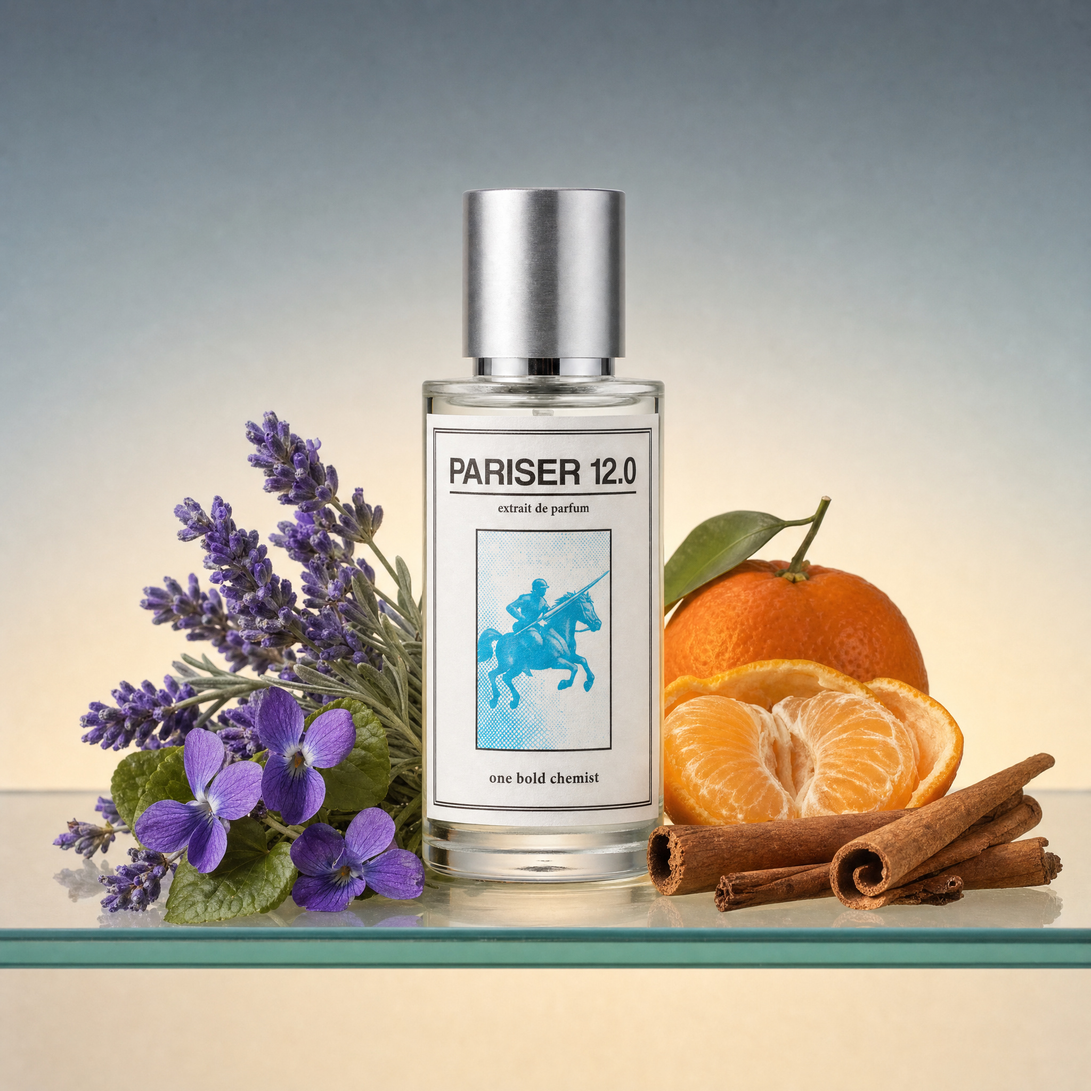
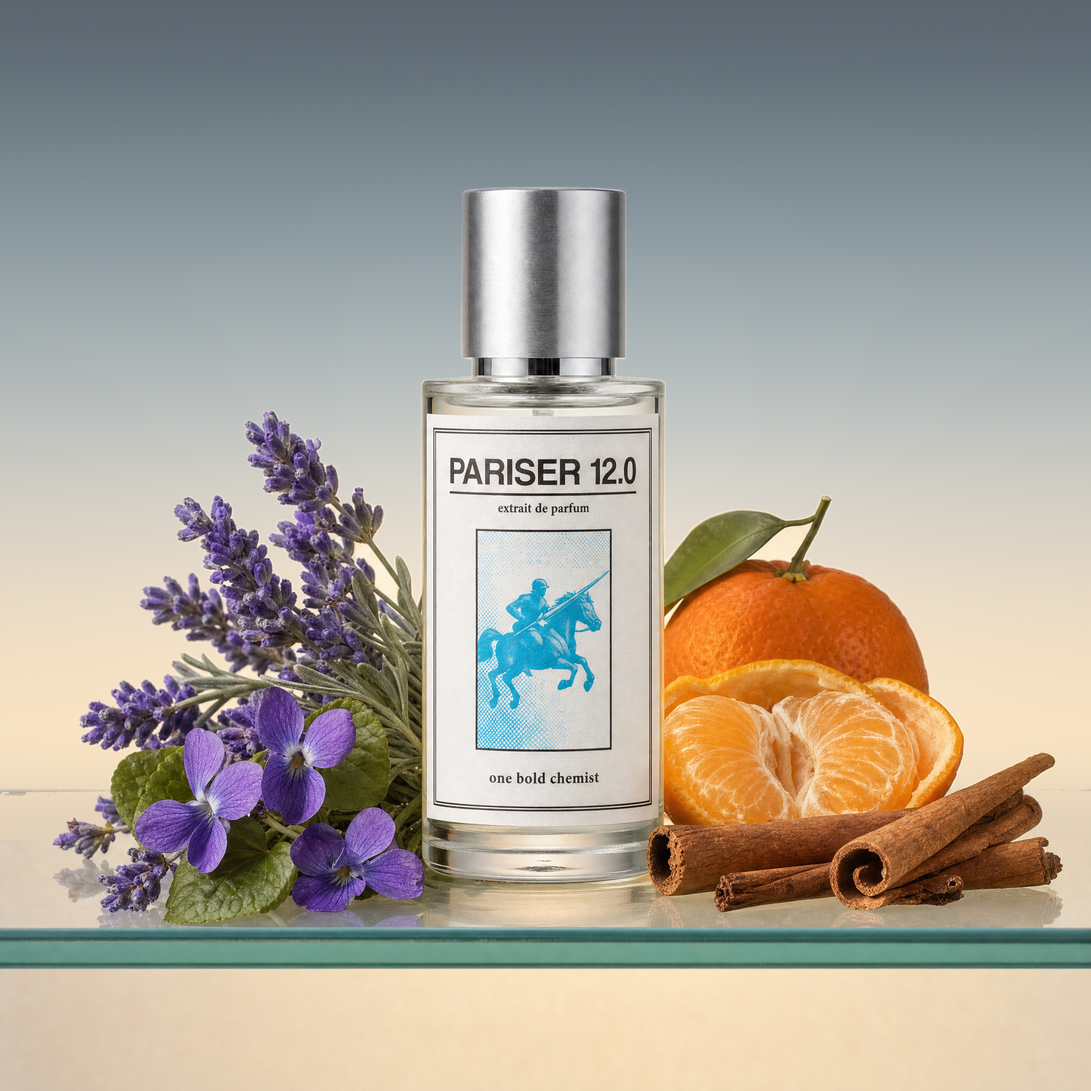
Add backdrop smoothing (edge-bounded flood fill) and apply to editorial images 11-30
Claude-Session: https://claude.ai/code/session_016v8pxCBCRgnJrBoVHWv8hg

Changed region(s): [[0.5625, 0.1562, 0.8438, 0.5312], [0.1875, 0.1875, 0.4375, 0.5], [0.0312, 0.7188, 0.0625, 0.75]]

diff --git a/notes-images/scripts/smooth_backdrop.py b/notes-images/scripts/smooth_backdrop.py
@@ -1,0 +1,98 @@
+#!/usr/bin/env python3
+"""Jämnar ut fläckiga gradientbakgrunder i editorial-bilder.
+
+Bakgrundens färg mäts rad för rad i bildens ytterkanter, jämnas vertikalt och ersätter
+bakgrundspixlarna med en ren vertikal gradient plus en mjuk syntetisk glöd bakom flaskan.
+Flaskan (mittboxen), ingredienserna (nedre bandet, strikt tröskel) och hyllan rörs inte.
+
+Kör:  python3 scripts/smooth_backdrop.py output/*_editorial_gpt.png --out output/final_editorial
+"""
+from __future__ import annotations
+
+import argparse
+from pathlib import Path
+
+import numpy as np
+from PIL import Image, ImageFilter
+
+
+def gaussian1d(a: np.ndarray, sigma: float) -> np.ndarray:
+    r = int(3 * sigma)
+    k = np.exp(-0.5 * (np.arange(-r, r + 1) / sigma) ** 2); k /= k.sum()
+    pad = np.pad(a, ((r, r), (0, 0)), mode="edge")
+    return np.stack([np.convolve(pad[:, c], k, mode="valid") for c in range(a.shape[1])], axis=1)
+
+
+def local_std(g: np.ndarray, r: int) -> np.ndarray:
+    """Lokal standardavvikelse i ett (2r+1)^2-fönster via integralbilder (flyttal)."""
+    def box_mean(x):
+        pad = np.pad(x, r, mode="edge")
+        c = np.cumsum(np.cumsum(pad, axis=0), axis=1)
+        c = np.pad(c, ((1, 0), (1, 0)))
+        w = 2 * r + 1
+        return (c[w:, w:] - c[:-w, w:] - c[w:, :-w] + c[:-w, :-w]) / (w * w)
+    m1 = box_mean(g.astype(np.float64)); m2 = box_mean(g.astype(np.float64) ** 2)
+    return np.sqrt(np.clip(m2 - m1 ** 2, 0, None)).astype(np.float32)
+
+
+def smooth(path: Path, out_dir: Path, shelf: float, glow: float, quality: int) -> str:
+    im = Image.open(path).convert("RGB")
+    a = np.asarray(im).astype(np.float32); H, W, _ = a.shape
+    edge = int(W * 0.05)
+    y_max = int(H * shelf)
+    # 1) bakgrundsfärg per rad från kanterna, vertikalt utjämnad
+    rows = np.concatenate([a[:y_max, :edge], a[:y_max, W - edge:]], axis=1)
+    med = np.median(rows, axis=1)                       # (y_max, 3)
+    bg = gaussian1d(med, sigma=H * 0.03)                # jämn vertikal gradient
+    # 2) syntetisk, mjuk glöd bakom flaskan
+    yy, xx = np.mgrid[0:y_max, 0:W]
+    g = np.exp(-(((xx - W / 2) / (0.32 * W)) ** 2 + ((yy - 0.55 * H) / (0.30 * H)) ** 2))
+    G = np.clip(bg[:, None, :] + glow * g[:, :, None], 0, 255)
+    # 3) bakgrundsmask via flood fill från kanterna genom kantfria, släta pixlar.
+    #    Motivets konturer (starka kanter) stoppar fyllningen, så färglikhet spelar ingen roll.
+    def fblur(x, sigma):
+        return gaussian1d(gaussian1d(x.astype(np.float32), sigma).T, sigma).T
+    gray = a[:y_max].mean(axis=2)
+    gx = np.abs(np.diff(gray, axis=1, prepend=gray[:, :1])); gy = np.abs(np.diff(gray, axis=0, prepend=gray[:1]))
+    edge = np.maximum(gx, gy)
+    tex = local_std(gray, 2)
+    passable = ((edge < 6.0) & (tex < 5.0)).astype(np.uint8) * 255
+    pas = Image.fromarray(passable).filter(ImageFilter.MinFilter(3))       # bredda barriärerna
+    from PIL import ImageDraw
+    seeds = [(x, 2) for x in range(2, W - 2, 64)] + [(2, y) for y in range(2, y_max - 2, 64)] + [(W - 3, y) for y in range(2, y_max - 2, 64)]
+    for sx, sy in seeds:
+        if pas.getpixel((sx, sy)) == 255:
+            ImageDraw.floodfill(pas, (sx, sy), 128)
+    fill = (np.asarray(pas) == 128).astype(np.float32)
+    fill = np.asarray(Image.fromarray((fill * 255).astype(np.uint8)).filter(ImageFilter.MaxFilter(3))).astype(np.float32) / 255
+    # lokal gammal bakgrund (inkl. glöd) från den fyllda ytan, för kantskiftning
+    wsum = fblur(fill, 30) + 1e-3
+    local_bg = np.stack([fblur(a[:y_max, :, c] * fill, 30) / wsum for c in range(3)], axis=2)
+    m_soft = np.asarray(Image.fromarray((fill * 255).astype(np.uint8)).filter(ImageFilter.GaussianBlur(1.5))).astype(np.float32) / 255
+    shift_w = np.maximum(m_soft, fblur(fill, 3))
+    shifted = a[:y_max] + (G - local_bg) * shift_w[:, :, None]
+    out = a.copy()
+    out[:y_max] = fill[:, :, None] * G + (1 - fill[:, :, None]) * shifted
+    m = fill
+    out += np.random.uniform(-0.5, 0.5, out.shape)      # dither mot banding
+    res = Image.fromarray(np.clip(out, 0, 255).astype(np.uint8))
+    out_dir.mkdir(parents=True, exist_ok=True)
+    dest = out_dir / (path.stem.replace("_gpt", "") + ".jpg")
+    res.save(dest, "JPEG", quality=quality, subsampling=0)
+    return f"{path.name}: ersatt {m.mean() * 100:.0f}% av ytan ovanför hyllan -> {dest.name}"
+
+
+def main() -> None:
+    ap = argparse.ArgumentParser(description=__doc__, formatter_class=argparse.RawDescriptionHelpFormatter)
+    ap.add_argument("images", nargs="+", type=Path)
+    ap.add_argument("--out", type=Path, required=True)
+    ap.add_argument("--shelf", type=float, default=0.77, help="andel av höjden ovanför hyllan som behandlas")
+    ap.add_argument("--glow", type=float, default=12.0, help="styrka på den syntetiska glöden (0 = ingen)")
+    ap.add_argument("--quality", type=int, default=95)
+    args = ap.parse_args()
+    for p in args.images:
+        print(smooth(p, args.out, args.shelf, args.glow, args.quality))
+
+
+if __name__ == "__main__":
+    main()

diff --git a/notes-images/README.md b/notes-images/README.md
@@ -80,6 +80,17 @@ vätskefärg aldrig får kopieras från den, och att namnet ska återges bokstav
 etiketten på varje bild. Känt: Shopifys flaskbild för Macquer 29.0 har etiketten "MAQCUER", så den
 genererade bilden återger det.
 
+### Jämna bakgrunder
+
+Modellen lägger ofta in en molnig, fläckig glöd i gradienten. `scripts/smooth_backdrop.py` mäter bakgrundens
+färg rad för rad i bildkanterna, bygger en helt jämn vertikal gradient med en mjuk syntetisk glöd, och byter
+ut bakgrunden via flood fill från kanterna genom kantfria pixlar (motivets konturer stoppar fyllningen, så
+flaska, etikett och ingredienser rörs inte). Ytan under hyllan lämnas orörd.
+
+```bash
+python3 scripts/smooth_backdrop.py output/*_editorial_gpt.png --out output/final_editorial
+```
+
 ## Manuellt i Gemini-appen / AI Studio
 
 1. Öppna `prompts/<nr>_<namn>.txt` och kopiera texten.
